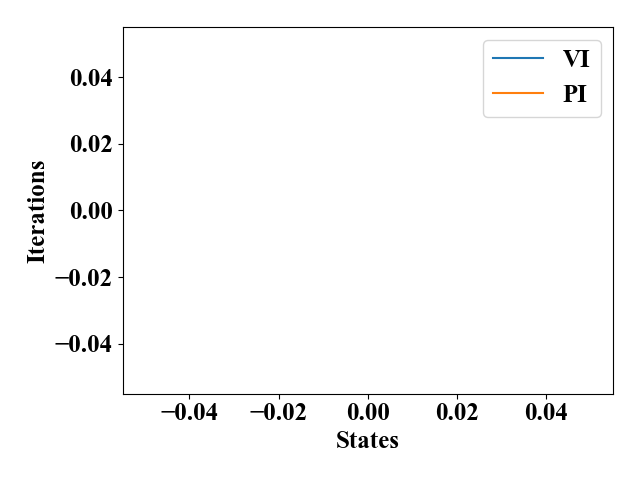
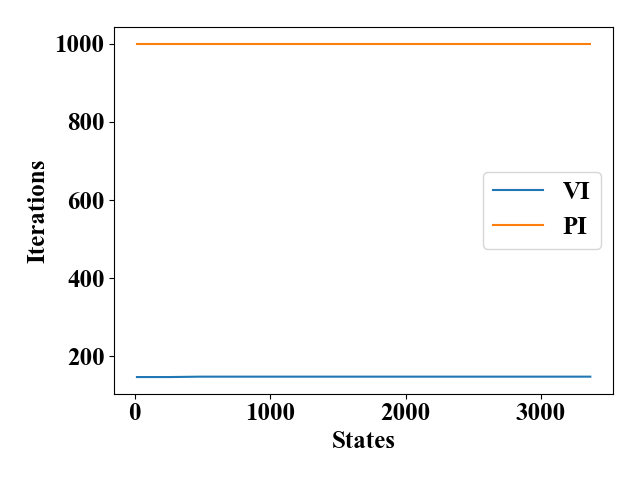
Get crappy results after adding negative reward to holes

diff --git a/a4/tune_lake.py b/a4/tune_lake.py
@@ -5,28 +5,6 @@ import gym
 import numpy as np
 import mdptoolbox, mdptoolbox.example
 import matplotlib.pyplot as plt
-import pprint
-
-def bar_stuff(x, y, xlabel, ylabel, name):
-#    x = [16,100,256,484,784,1156,1600,2116,2704,3364]
-#    y = np.array([0, 0, 0, 0.00413223, 0.01530612, 0.02595156, 0.07125, 0.13563327, 0.26849112, 0.35523187])
-
-    plt.clf()
-    font = { 'family': 'Times New Roman', 'size': 18 }
-    plt.rc('font', **font)
-    plt.xlabel(xlabel)
-    plt.ylabel(ylabel)
-    str_x = []
-    for num in x:
-        str_x.append(str(num))
-    plt.xticks(rotation=45)
-    plt.bar(str_x,y)
-    plt.tight_layout()
-    plt.savefig(f"{name}.png")
-#    plt.show()
-
-#bar_stuff(None, None, 'States', 'VI-PI Policy Difference', 'lake_policy_diff')
-#exit()
 
 def plot_stuff(x, y1, y2, y1_label, y2_label, xlabel, ylabel, name):
     plt.clf()
@@ -47,8 +25,9 @@ LET = 'HFSG'
 
 n_vals = 10
 results = np.zeros((n_vals, 6))
+S = 58
+
 for i in range(n_vals):
-    S = 6 * i + 4
     np_map = np.ones((S, S), dtype=int)
     toggle = True
     hole_len = int(S * 0.3)
@@ -95,9 +74,9 @@ for i in range(n_vals):
     states = S * S
     print('P.shape', P.shape)
     print('R.shape', R.shape)
-    print('R counts', np.unique(R, return_counts=True))
 
     print('================ VI,', 'states =', states)
+    continue
 
     vi = mdptoolbox.mdp.ValueIteration(P, R, D)
     vi.setVerbose()
@@ -137,7 +116,5 @@ plot_stuff(
     'Time (s)',
     'lake_time_compare'
 )
-
-bar_stuff(results[:,0], results[:,5], 'States', 'VI-PI Policy Difference', 'lake_policy_diff')
 
 print(results[:,5])
